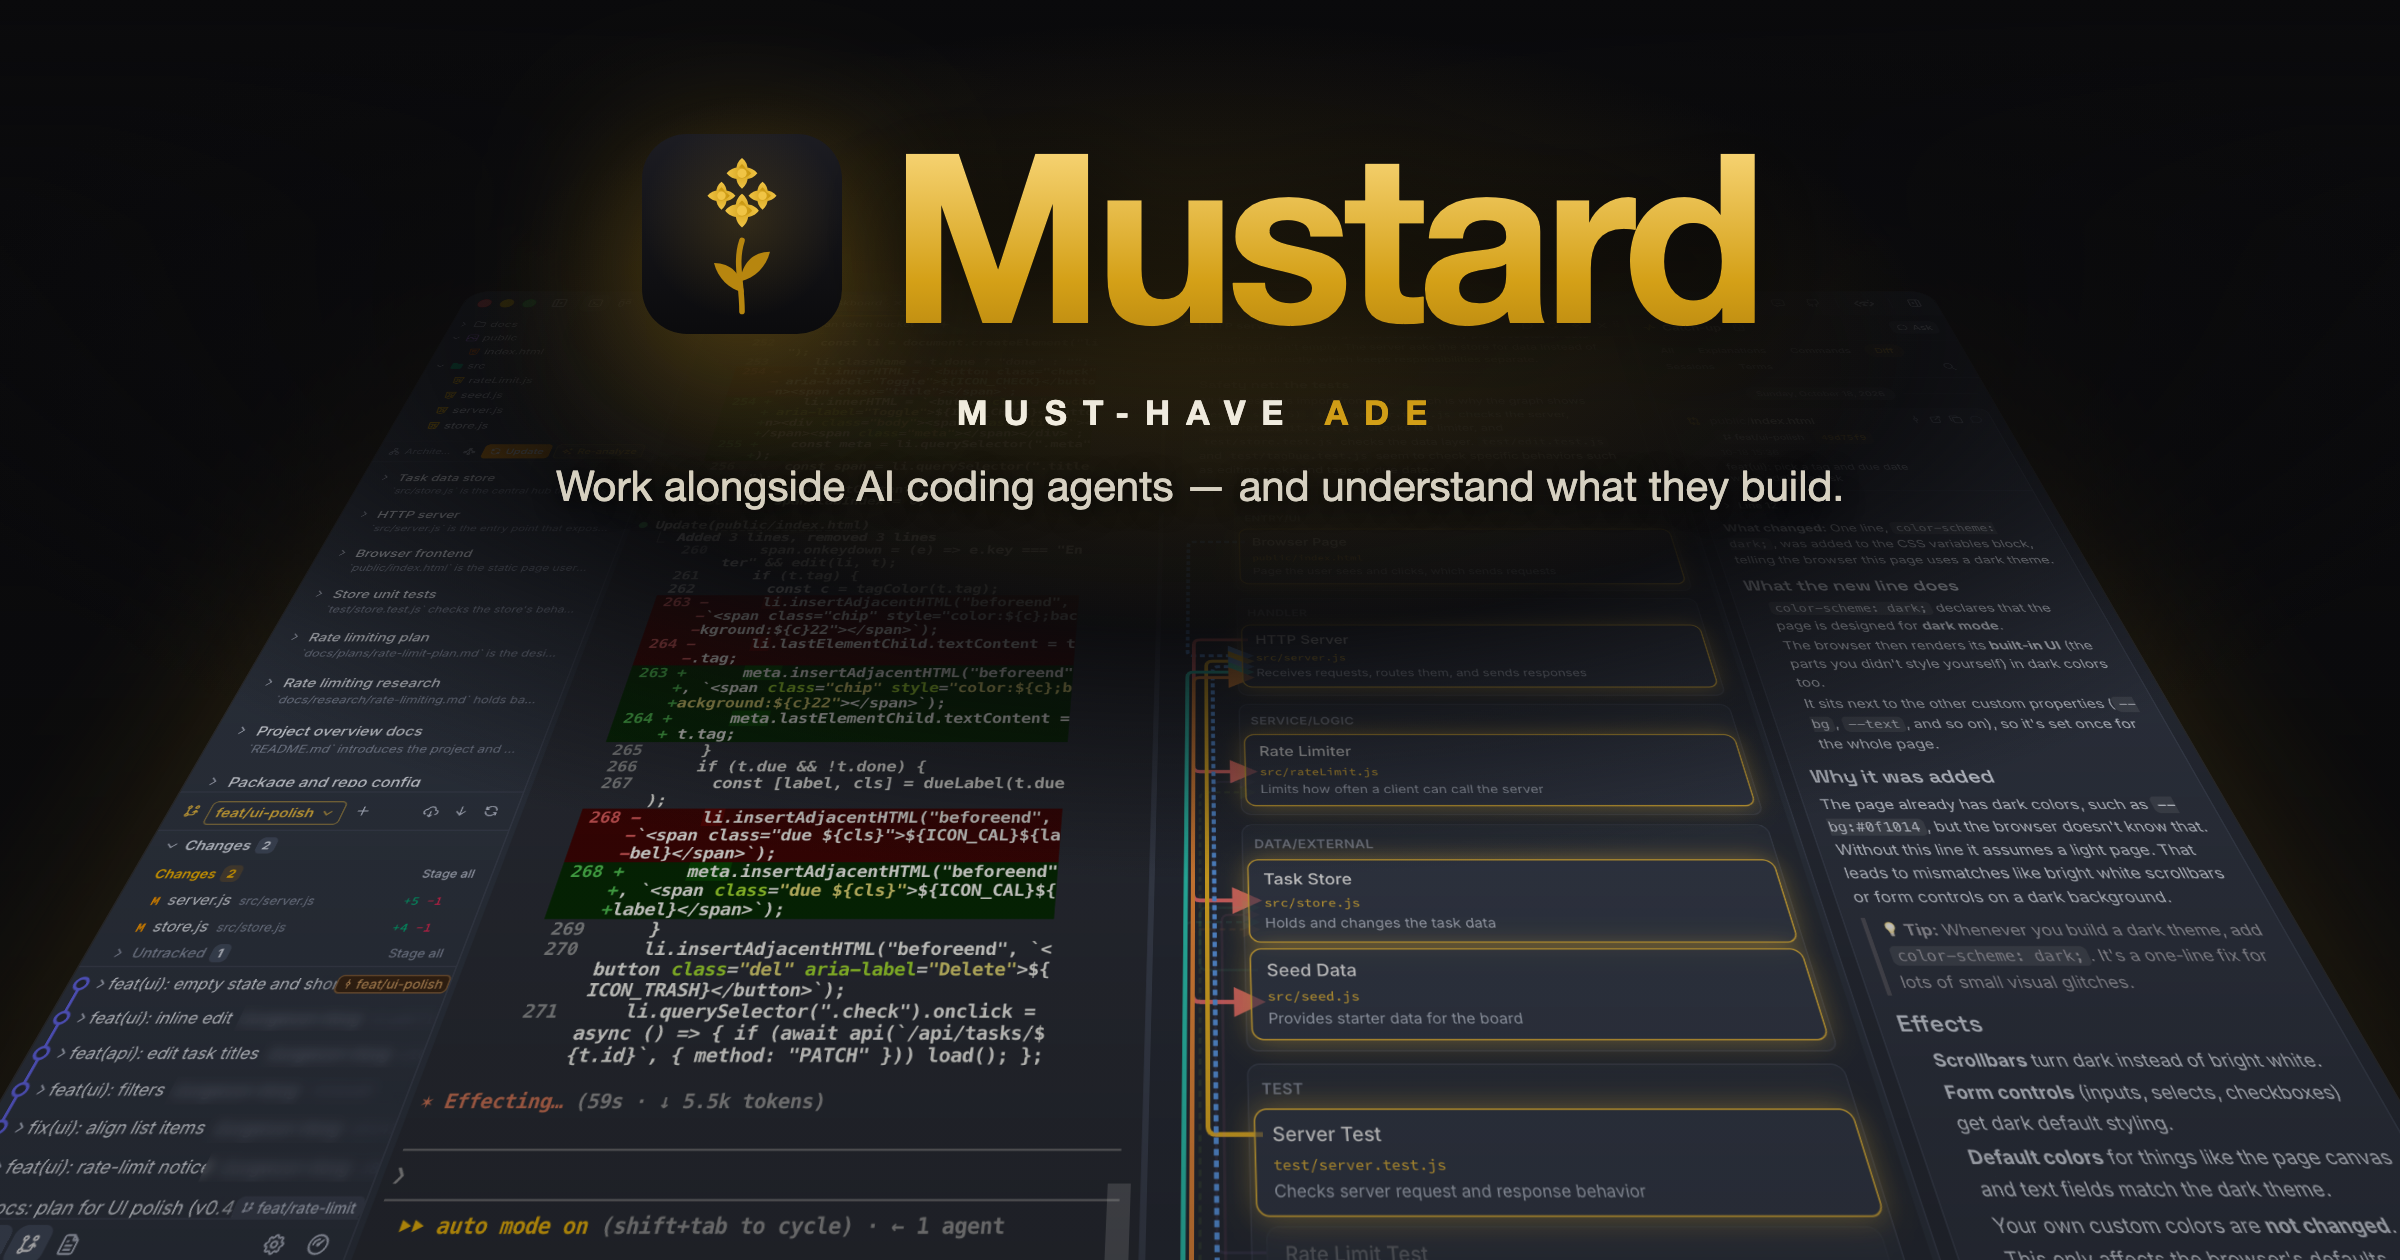
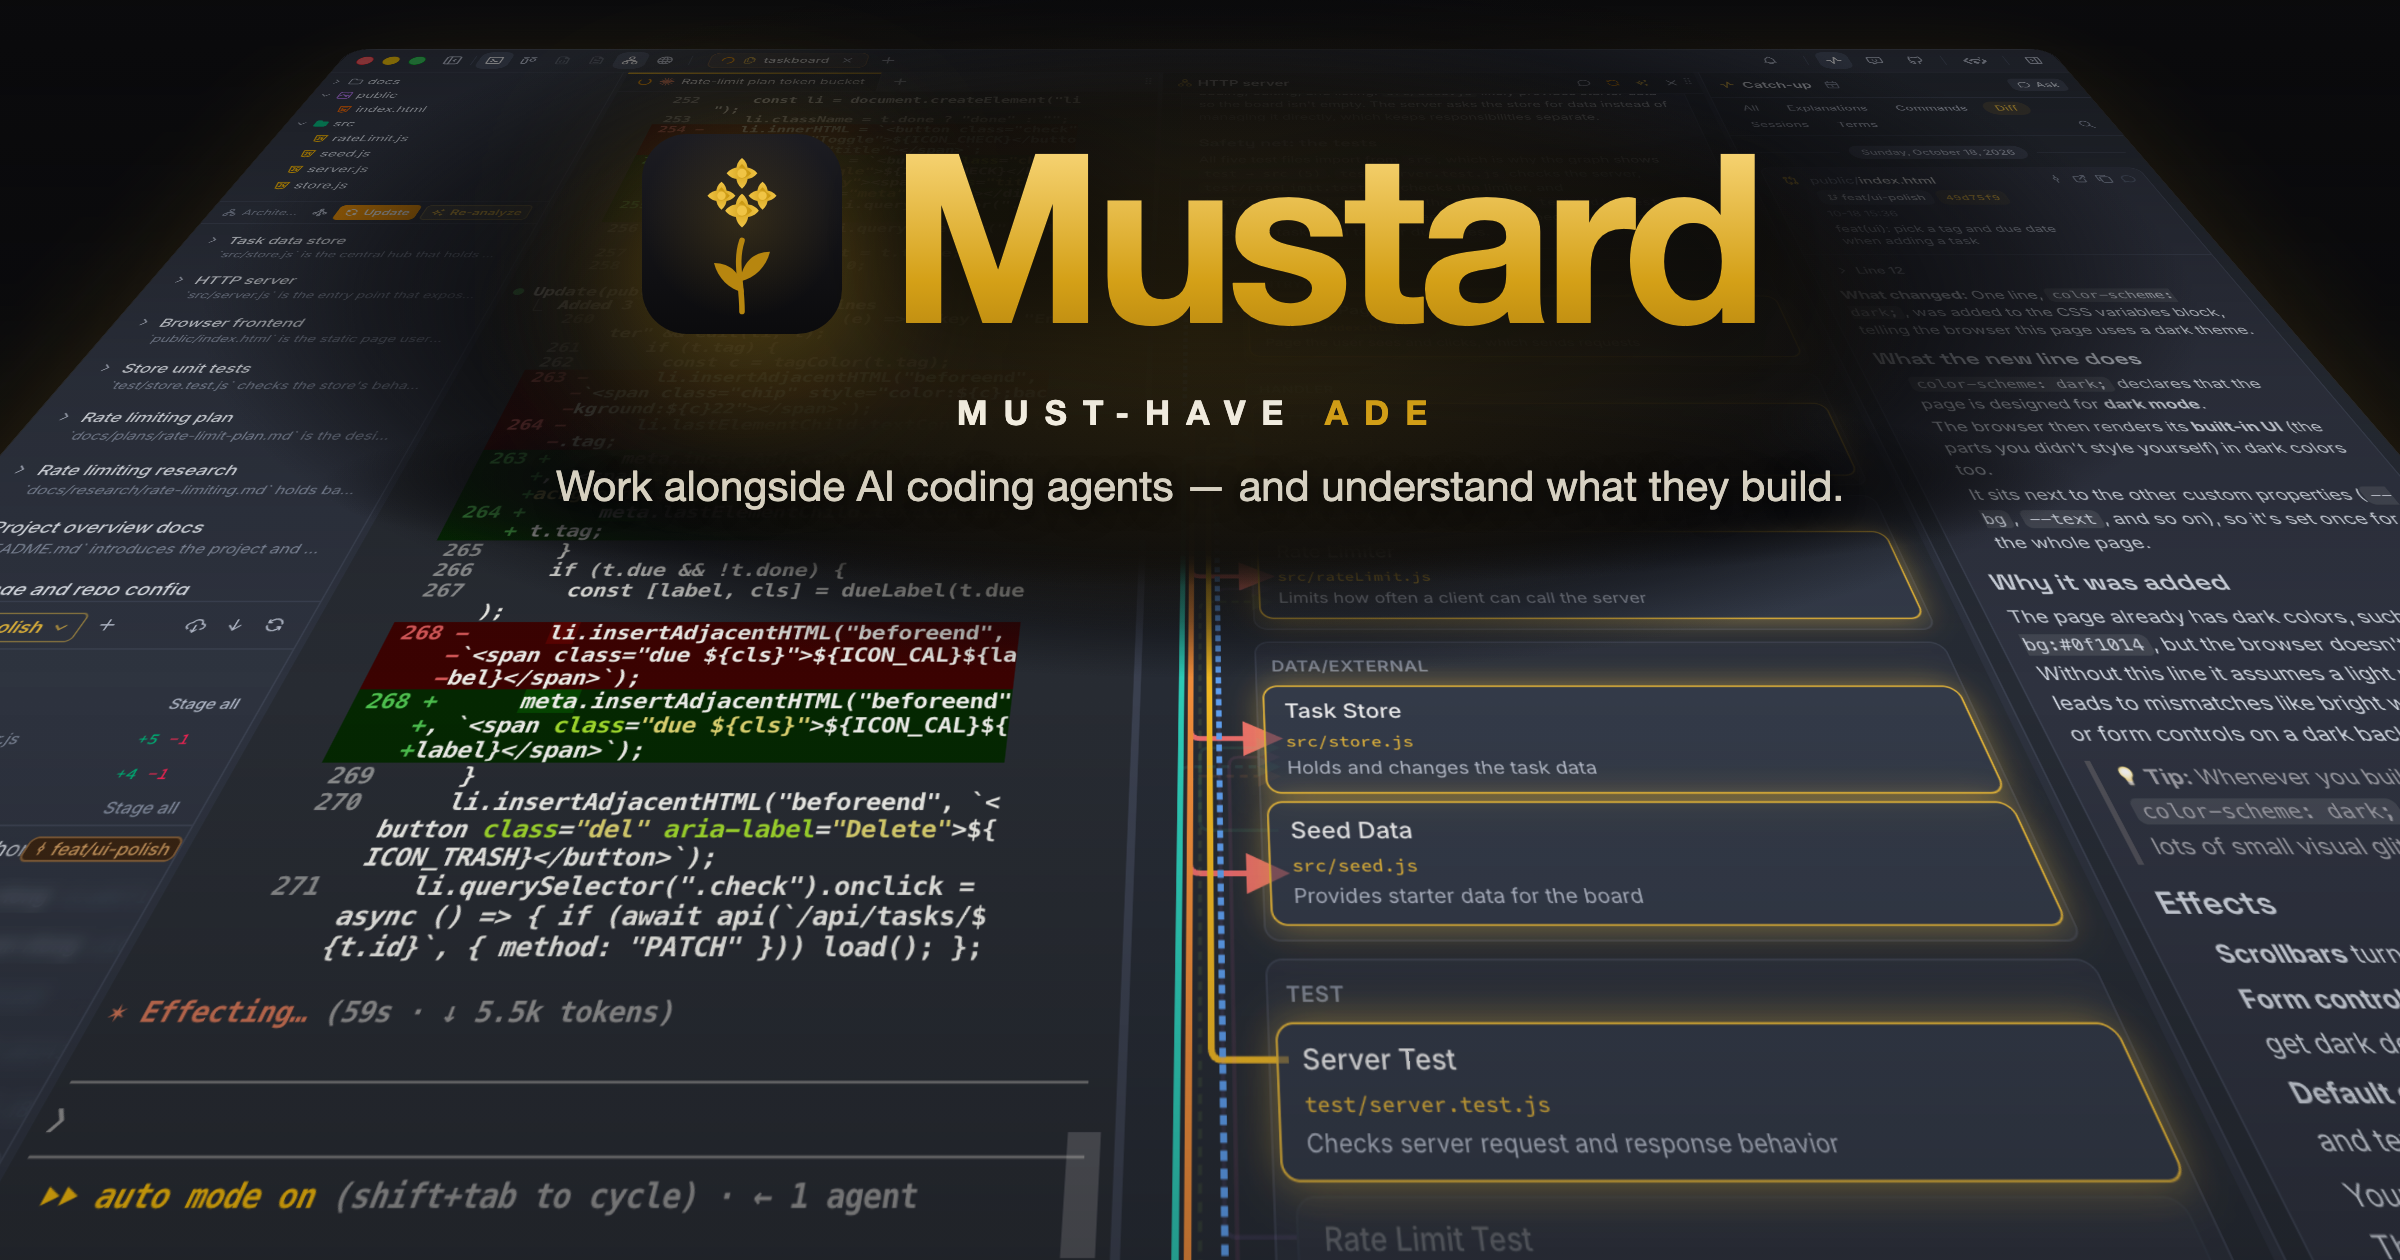
docs: 대표 이미지 — 앱 화면을 위쪽까지 채우고, 글자·아이콘 주변만 좁게 가림 (#1118)

diff --git a/scripts/brand/mustard-hero.html b/scripts/brand/mustard-hero.html
@@ -3,13 +3,14 @@
 *{box-sizing:border-box;margin:0;padding:0}
 html,body{width:1200px;height:630px;overflow:hidden}
 body{font-family:-apple-system,"SF Pro Display","Helvetica Neue",Inter,sans-serif;color:#f4efe2;position:relative;background:#0a0a0c}
-.stage{position:absolute;inset:0;perspective:800px;perspective-origin:50% 30%;overflow:hidden}
-.shot{position:absolute;left:50%;top:-180px;width:1300px;height:816px;margin-left:-650px;border-radius:18px;overflow:hidden;transform:rotateX(50deg);transform-origin:50% 100%;opacity:.92;border:1px solid rgba(255,255,255,.14);box-shadow:0 0 140px rgba(212,160,23,.2)}
+.stage{position:absolute;inset:0;perspective:760px;perspective-origin:50% 20%;overflow:hidden}
+.shot{position:absolute;left:50%;top:-560px;width:1900px;height:1193px;margin-left:-950px;border-radius:22px;overflow:hidden;transform:rotateX(52deg);transform-origin:50% 100%;opacity:.95;border:1px solid rgba(255,255,255,.14);box-shadow:0 0 140px rgba(212,160,23,.2)}
 .shot img{display:block;width:100%;height:100%}
 /* hide the app behind the text; let it show only around it */
 .veil{position:absolute;inset:0;background:
- radial-gradient(640px 250px at 50% 30%,rgba(10,10,12,.97) 0%,rgba(10,10,12,.9) 50%,rgba(10,10,12,.4) 78%,transparent 100%),
- linear-gradient(180deg,#0a0a0c 0%,rgba(10,10,12,.55) 18%,rgba(10,10,12,.1) 50%,rgba(10,10,12,.3) 100%)}
+ radial-gradient(440px 50px at 50% 243px,rgba(10,10,12,.95) 0%,rgba(10,10,12,.9) 68%,transparent 100%),
+ radial-gradient(500px 175px at 50% 26%,rgba(10,10,12,.97) 0%,rgba(10,10,12,.93) 62%,rgba(10,10,12,.5) 84%,transparent 100%),
+ linear-gradient(180deg,rgba(10,10,12,.55) 0%,rgba(10,10,12,.15) 30%,transparent 55%,rgba(10,10,12,.25) 100%)}
 .glow{position:absolute;inset:0;background:radial-gradient(520px 220px at 50% 26%,rgba(212,160,23,.16),transparent 70%)}
 .head{position:absolute;left:0;right:0;top:0;bottom:0;display:flex;flex-direction:column;align-items:center;justify-content:flex-start;text-align:center;padding-top:58px}
 .row{display:flex;align-items:center;gap:24px}
